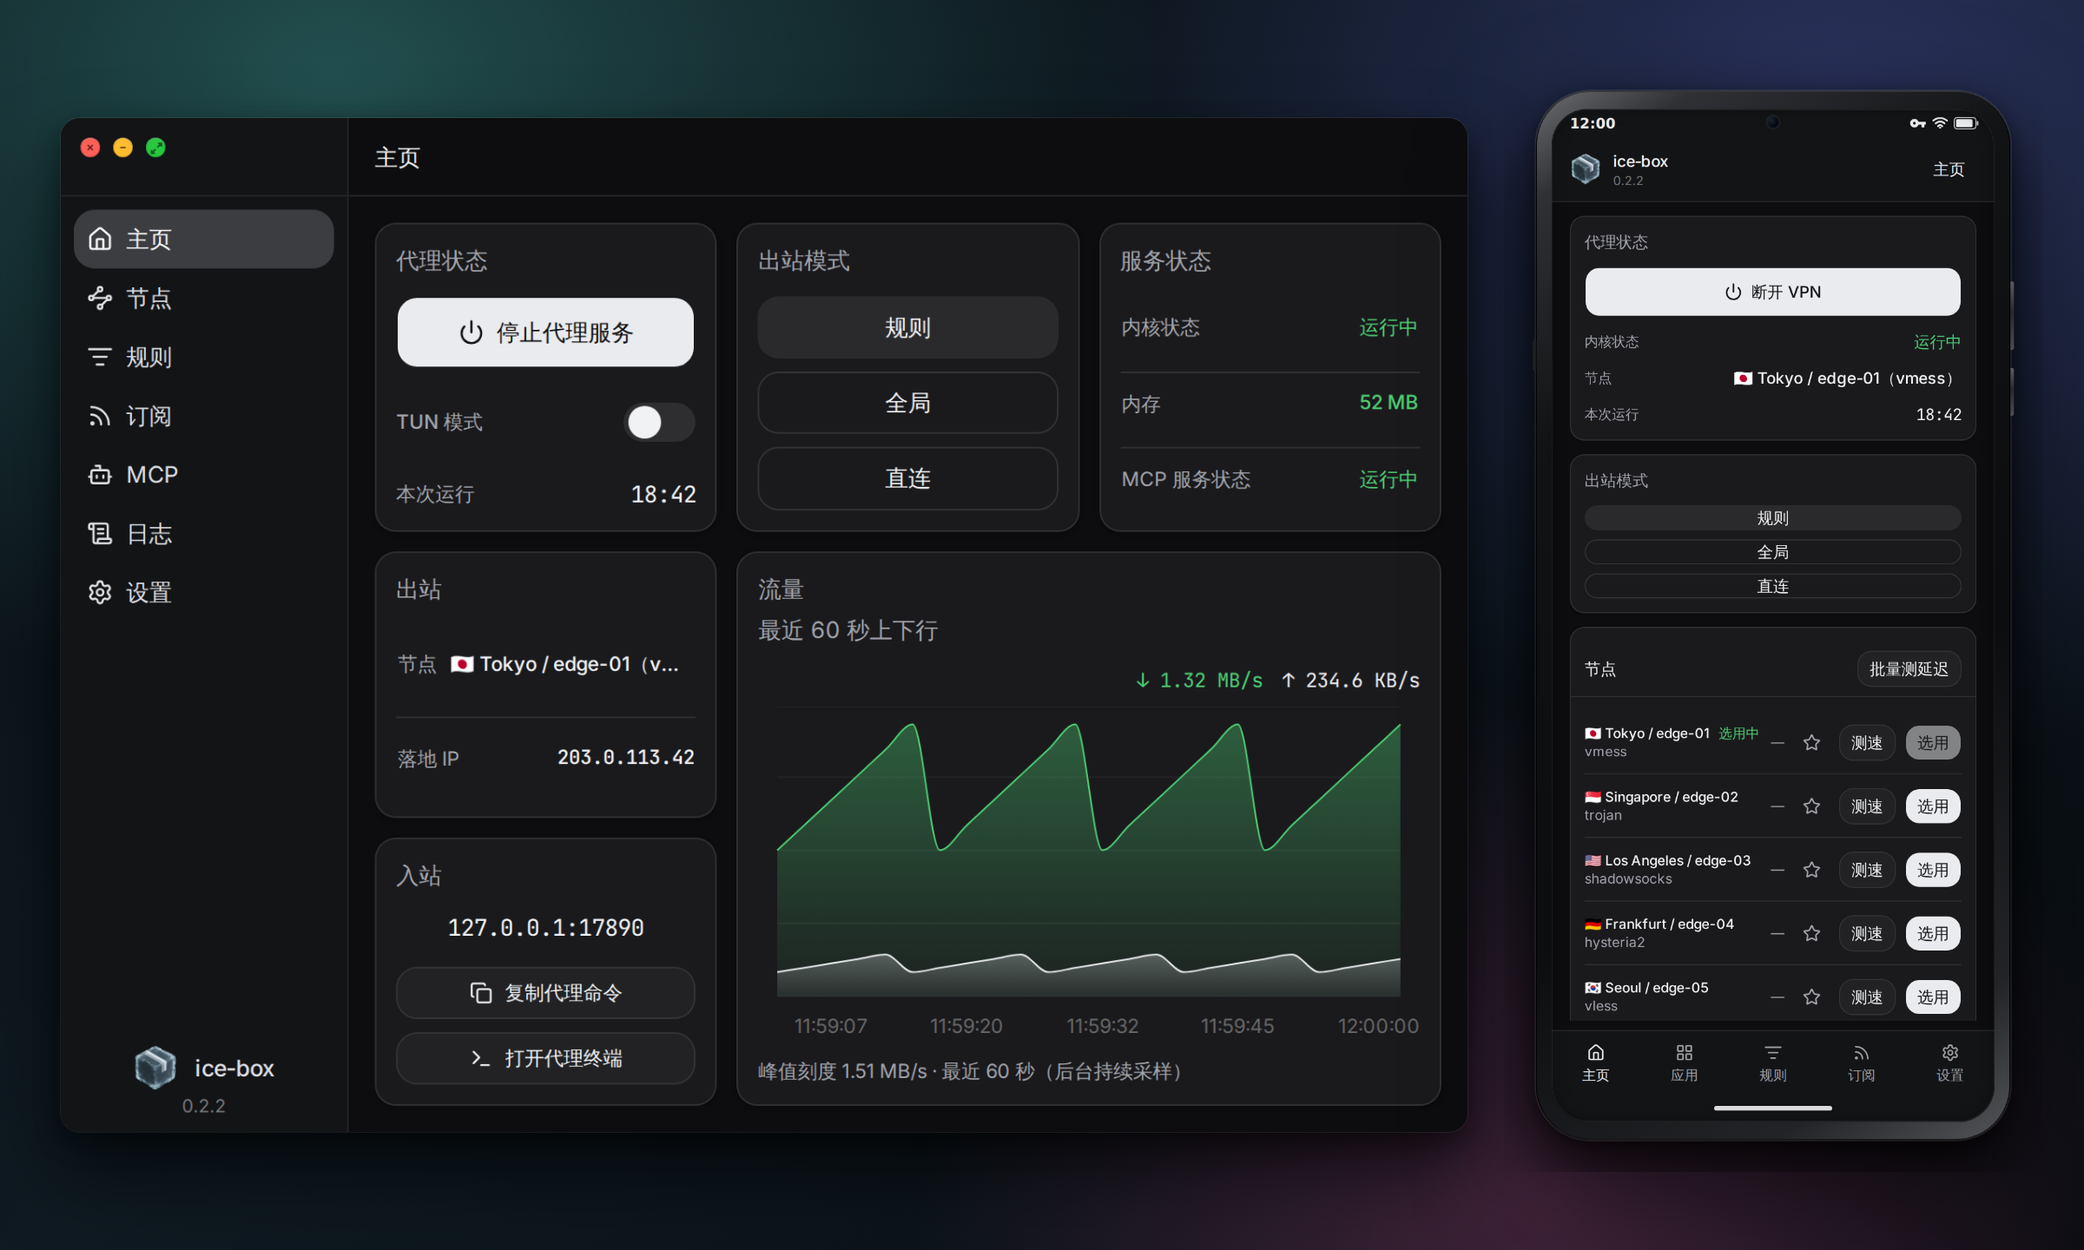
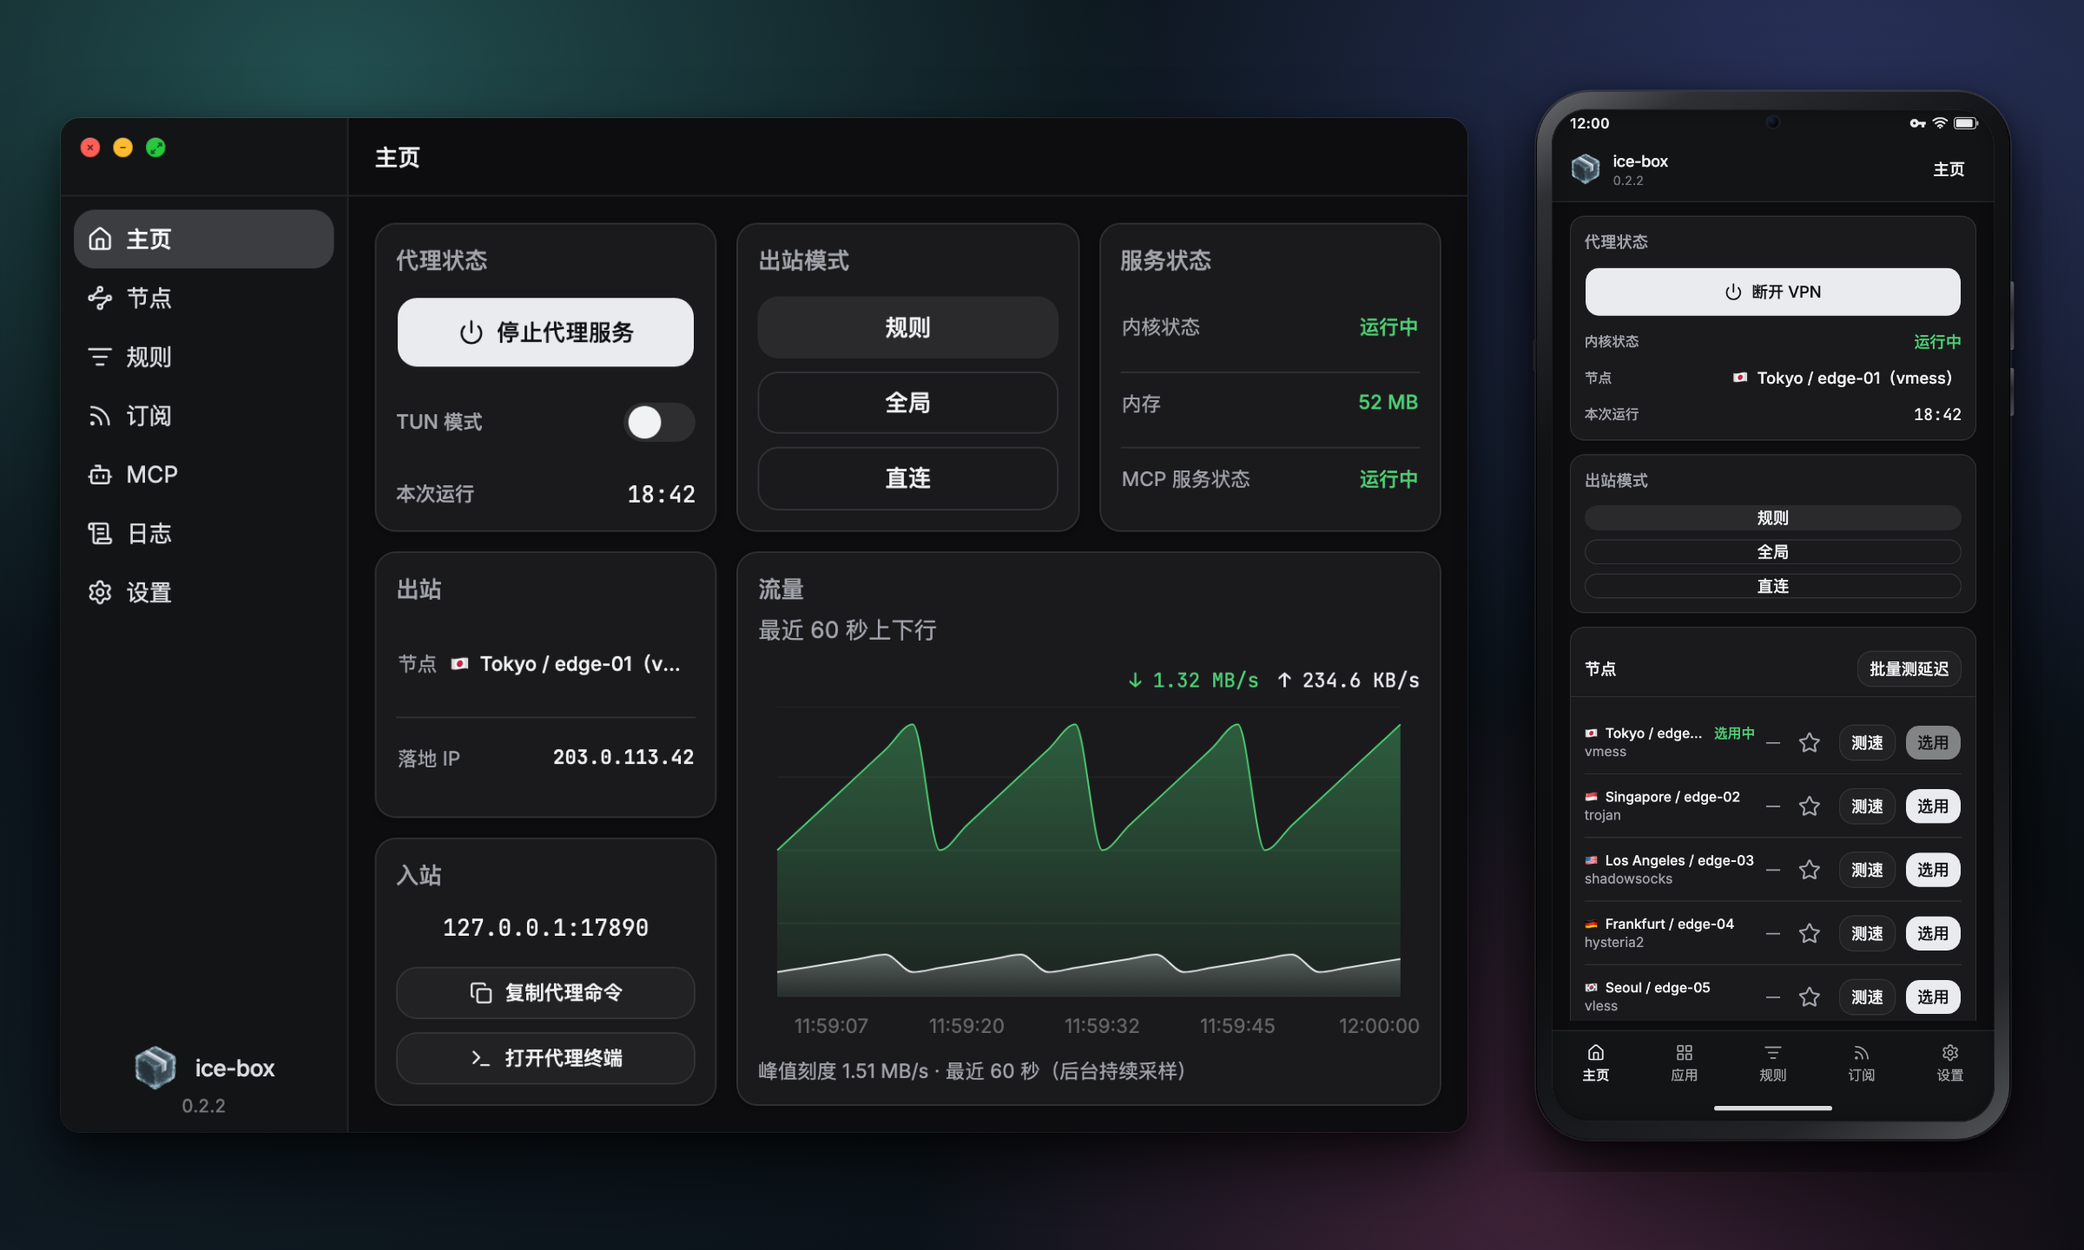
fix(favorites): close v0.2.3 review gaps
- keep favorite writes single-flight through the post-success refresh
- reject unsupported node-favorites versions without overwriting them
- cover the desktop subscription-removal favorites purge
- refresh the v0.2.3 plan and hero captures for the 36px star

diff --git a/apps/desktop/src/pages/Nodes.tsx b/apps/desktop/src/pages/Nodes.tsx
@@ -507,9 +507,11 @@ export function Nodes({ onNavigate, active = true, embedded = false }: Props) {
     };
   }, []);
 
-  const refresh = useCallback(async () => {
+  const refresh = useCallback(async (opts?: { allowDuringFavorite?: boolean }) => {
     // A favorite write owns the optimistic list until its post-success refresh.
-    if (favoriteInFlightRef.current) return;
+    // That refresh passes `allowDuringFavorite` because the single-flight guard
+    // intentionally stays set until the list has caught up with the backend.
+    if (favoriteInFlightRef.current && opts?.allowDuringFavorite !== true) return;
     const gen = nextGeneration();
     try {
       // Read the status directly instead of the shared store's cached value:
@@ -717,9 +719,9 @@ export function Nodes({ onNavigate, active = true, embedded = false }: Props) {
         setNodes(applyFavoriteToNodes(previous, node.tag, !wasFavorite));
         try {
           await api.setNodeFavorite(node.tag, !wasFavorite);
-          favoriteInFlightRef.current = false;
-          if (mountedRef.current) setFavoritePending(false);
-          if (mountedRef.current && activeRef.current) await refresh();
+          if (mountedRef.current && activeRef.current) {
+            await refresh({ allowDuringFavorite: true });
+          }
         } catch (e) {
           // Keep the snapshot as the last backend result; reverting to
           // `previous` restores the rows without writing a favorite state.
@@ -728,6 +730,8 @@ export function Nodes({ onNavigate, active = true, embedded = false }: Props) {
             setError(formatInvokeError(e));
           }
         } finally {
+          // Stay single-flight through the post-success refresh: a second star
+          // click must not race the list while it is catching up.
           favoriteInFlightRef.current = false;
           if (mountedRef.current) setFavoritePending(false);
         }

diff --git a/apps/desktop/src/pages/Nodes.test.tsx b/apps/desktop/src/pages/Nodes.test.tsx
@@ -1044,6 +1044,51 @@ describe("Nodes", () => {
     });
   });
 
+  it("keeps the single-flight guard through the post-success refresh", async () => {
+    const { container } = render(<Nodes />);
+    const view = within(container);
+    await view.findByRole("list", { name: t("nodes.listAria") });
+    const fetchesBefore = listNodes.mock.calls.length;
+
+    let releaseRefresh: (nodes: Array<Record<string, unknown>>) => void = () => {};
+    listNodes.mockImplementation(
+      () =>
+        new Promise<Array<Record<string, unknown>>>((resolve) => {
+          releaseRefresh = resolve;
+        }),
+    );
+
+    fireEvent.click(star(rowOf(view, "node-a")));
+    await waitFor(() => {
+      expect(setNodeFavorite).toHaveBeenCalledWith("node-a", true);
+      expect(listNodes.mock.calls.length).toBe(fetchesBefore + 1);
+    });
+    expect(star(rowOf(view, "node-a"), true)).toBeDisabled();
+
+    fireEvent.click(star(rowOf(view, "node-b")));
+    expect(setNodeFavorite).toHaveBeenCalledTimes(1);
+
+    await act(async () => {
+      releaseRefresh([
+        {
+          tag: "node-a",
+          outbound_type: "socks",
+          group_now: null,
+          group_all: null,
+          favorite: true,
+          favorite_rank: 0,
+        },
+        {
+          tag: "node-b",
+          outbound_type: "vmess",
+          group_now: null,
+          group_all: null,
+        },
+      ]);
+    });
+    await waitFor(() => expect(star(rowOf(view, "node-b"))).toBeEnabled());
+  });
+
   it("rolls back and shows the error when the favorite write fails", async () => {
     setNodeFavorite.mockRejectedValueOnce("favorite failed");
     const { container } = render(<Nodes />);

diff --git a/crates/ice-config/src/favorites.rs b/crates/ice-config/src/favorites.rs
@@ -5,8 +5,9 @@
 //! Favorites are local UI preferences, not subscription parsing state. Each
 //! subscription owns an ordered tag list, newest favorite first. Stale tags
 //! stay on disk when a provider refresh drops them, so the pin returns if the
-//! same tag reappears. Reads and writes are serialized by a module-level
-//! mutex; the atomic write protects readers from partial files.
+//! same tag reappears. Mutations are serialized by a module-level mutex;
+//! readers rely on the atomic write to see either the previous or the next
+//! complete file.
 
 use crate::atomic::write_json_atomic;
 use crate::{AppError, ErrorCode};
@@ -59,32 +60,70 @@ impl NodeFavorites {
 
 /// Load favorites. A missing file is empty; a corrupt wrapper degrades to
 /// empty. Invalid subscription keys and malformed entries are skipped without
-/// discarding the rest of the file.
+/// discarding the rest of the file. A file with an unknown version also reads
+/// as empty, but writes refuse to touch it so a downgraded build cannot erase
+/// newer data.
 pub fn load_node_favorites(path: &Path) -> NodeFavorites {
+    match load_favorites(path) {
+        LoadedFavorites::Ready(favorites) => favorites,
+        LoadedFavorites::UnsupportedVersion => NodeFavorites::default(),
+    }
+}
+
+enum LoadedFavorites {
+    Ready(NodeFavorites),
+    UnsupportedVersion,
+}
+
+fn load_favorites(path: &Path) -> LoadedFavorites {
     let raw = match fs::read_to_string(path) {
         Ok(raw) => raw,
         Err(err) if err.kind() == std::io::ErrorKind::NotFound => {
-            return NodeFavorites::default();
+            return LoadedFavorites::Ready(NodeFavorites::default());
         }
         Err(err) => {
             tracing::warn!(path = %path.display(), error = %err, "load node favorites");
-            return NodeFavorites::default();
+            return LoadedFavorites::Ready(NodeFavorites::default());
         }
     };
     parse_favorites(&raw)
 }
 
-fn parse_favorites(raw: &str) -> NodeFavorites {
+fn load_favorites_for_write(path: &Path) -> Result<NodeFavorites, AppError> {
+    match load_favorites(path) {
+        LoadedFavorites::Ready(favorites) => Ok(favorites),
+        LoadedFavorites::UnsupportedVersion => Err(AppError::new(
+            ErrorCode::ConfigInvalid,
+            "node favorites: file version is not supported; update the app or remove node-favorites.json",
+        )),
+    }
+}
+
+fn parse_favorites(raw: &str) -> LoadedFavorites {
     let value: Value = match serde_json::from_str(raw) {
         Ok(value) => value,
         Err(err) => {
             tracing::warn!(error = %err, "node favorites: corrupt file treated as empty");
-            return NodeFavorites::default();
+            return LoadedFavorites::Ready(NodeFavorites::default());
         }
     };
+    match value.get("version").and_then(Value::as_u64) {
+        Some(version) if version == u64::from(FAVORITES_VERSION) => {}
+        Some(version) => {
+            tracing::warn!(
+                version,
+                "node favorites: unsupported version treated as empty"
+            );
+            return LoadedFavorites::UnsupportedVersion;
+        }
+        None => {
+            tracing::warn!("node favorites: missing or invalid version treated as empty");
+            return LoadedFavorites::UnsupportedVersion;
+        }
+    }
     let Some(subscriptions) = value.get("subscriptions").and_then(Value::as_object) else {
         tracing::warn!("node favorites: missing subscriptions object treated as empty");
-        return NodeFavorites::default();
+        return LoadedFavorites::Ready(NodeFavorites::default());
     };
     let mut favorites = NodeFavorites::default();
     for (key, value) in subscriptions {
@@ -115,7 +154,7 @@ fn parse_favorites(raw: &str) -> NodeFavorites {
             favorites.subscriptions.insert(subscription, cleaned);
         }
     }
-    favorites
+    LoadedFavorites::Ready(favorites)
 }
 
 #[derive(Serialize)]
@@ -150,7 +189,7 @@ pub fn set_node_favorite(
     let _guard = FAVORITES_LOCK
         .lock()
         .unwrap_or_else(|poisoned| poisoned.into_inner());
-    let mut favorites = load_node_favorites(path);
+    let mut favorites = load_favorites_for_write(path)?;
     let previous = favorites.subscriptions.get(&subscription).cloned();
     if favorite {
         let mut tags = favorites
@@ -182,7 +221,7 @@ pub fn remove_subscription_favorites(path: &Path, subscription: Uuid) -> Result<
     let _guard = FAVORITES_LOCK
         .lock()
         .unwrap_or_else(|poisoned| poisoned.into_inner());
-    let mut favorites = load_node_favorites(path);
+    let mut favorites = load_favorites_for_write(path)?;
     if favorites.subscriptions.remove(&subscription).is_none() {
         return Ok(());
     }
@@ -216,6 +255,34 @@ mod tests {
         fs::create_dir_all(path.parent().unwrap()).unwrap();
         fs::write(&path, "{not json").unwrap();
         assert_eq!(load_node_favorites(&path), NodeFavorites::default());
+        let _ = fs::remove_dir_all(path.parent().unwrap());
+    }
+
+    #[test]
+    fn unsupported_or_missing_versions_load_empty_and_refuse_writes() {
+        let path = temp_path("version");
+        let id = Uuid::new_v4();
+        fs::create_dir_all(path.parent().unwrap()).unwrap();
+        for body in [
+            json!({"version": 2, "subscriptions": { id.to_string(): ["A"] }}),
+            json!({"version": "1", "subscriptions": { id.to_string(): ["A"] }}),
+            json!({"subscriptions": { id.to_string(): ["A"] }}),
+        ] {
+            let raw = serde_json::to_string(&body).unwrap();
+            fs::write(&path, &raw).unwrap();
+            assert!(load_node_favorites(&path).tags(id).is_empty());
+
+            let err = set_node_favorite(&path, id, "B", true).expect_err("unsupported version");
+            assert_eq!(err.code, ErrorCode::ConfigInvalid.as_str());
+            assert_eq!(
+                fs::read_to_string(&path).unwrap(),
+                raw,
+                "an unsupported wrapper must survive a write attempt"
+            );
+        }
+
+        let err = remove_subscription_favorites(&path, id).expect_err("unsupported version");
+        assert_eq!(err.code, ErrorCode::ConfigInvalid.as_str());
         let _ = fs::remove_dir_all(path.parent().unwrap());
     }
 

diff --git a/apps/desktop/src-tauri/src/application/tests.rs b/apps/desktop/src-tauri/src/application/tests.rs
@@ -3,7 +3,9 @@
 use super::*;
 use crate::capture::CaptureController;
 use crate::orchestrate::generate_config;
-use ice_config::{set_node_favorite, set_proxy_service_enabled, AppPaths, NormalizedOutbound};
+use ice_config::{
+    load_node_favorites, set_node_favorite, set_proxy_service_enabled, AppPaths, NormalizedOutbound,
+};
 use ice_engine::{
     load_index, read_profile, write_subscription_success, SubscriptionFormat, SubscriptionMeta,
     SubscriptionPaths,
@@ -1801,5 +1803,35 @@ fn set_node_favorite_validates_the_active_profile_and_does_not_rewrite_config() 
     )
     .expect_err("no active subscription");
     assert_eq!(err.code, ErrorCode::ConfigEmptyOutbounds.as_str());
+    let _ = fs::remove_dir_all(state.paths.root());
+}
+
+#[test]
+fn remove_subscription_use_case_purges_that_subscriptions_favorites() {
+    struct Host;
+
+    impl AppResources for Host {
+        fn resource_dir(&self) -> Option<std::path::PathBuf> {
+            None
+        }
+    }
+
+    impl AppHost for Host {
+        fn state_changed(&self) {}
+    }
+
+    let state = temp_state_with_node("favorite-remove");
+    let paths = SubscriptionPaths::from_app(&state.paths);
+    let id = load_index(&paths).unwrap().items[0].id;
+    set_node_favorite(&state.paths.node_favorites(), id, "n1", true).unwrap();
+    assert!(load_node_favorites(&state.paths.node_favorites()).contains(id, "n1"));
+
+    remove_subscription_use_case(&Host, &state, IdRequest { id }).expect("remove subscription");
+    assert!(
+        load_node_favorites(&state.paths.node_favorites())
+            .tags(id)
+            .is_empty(),
+        "removing a subscription must purge its favorites"
+    );
     let _ = fs::remove_dir_all(state.paths.root());
 }

diff --git a/docs/plans/v0.2.3.md b/docs/plans/v0.2.3.md
@@ -1,6 +1,6 @@
 # v0.2.3 Development Plan
 
-Status: Draft
+Status: Implemented (release pending)
 
 Branch: `release/v0.2.3`
 
@@ -111,6 +111,10 @@ Shape:
 
 - `version` is `1`. Future fields can be added to the wrapper with serde
   defaults; unknown top-level fields are ignored.
+- Any other version, including a missing or non-numeric one, is an unsupported
+  wrapper: reads return empty instead of parsing it under the current schema,
+  and writes fail without touching the file so a downgraded build cannot erase
+  newer data.
 - The `subscriptions` key is the subscription UUID as a string.
 - The value is an ordered list of node tags, **most recently favorited first**.
   Use a `Vec<String>` internally; each tag appears at most once.
@@ -367,9 +371,8 @@ In `apps/desktop/src/pages/Nodes.tsx`:
 - Add a star button to both the group-row and leaf-row action sets.
 - Use `Star` from `lucide-react`; fill it when active (`fill-current`,
   `text-warn`) and leave it outlined otherwise.
-- Use `buttonVariants({ variant: "ghost", size: "icon-sm" })` so the star stays
-  a 32px touch target. Do not fall back to `icon-xs`; it only saves 4px and
-  reduces the touch target.
+- Use `buttonVariants({ variant: "ghost", size: "icon" })` so the star stays a
+  36px touch target. `icon-sm` (32px) was too small in practice.
 - In embedded mode (phone), omit the per-row `notRunning` badge from group rows.
   The page-level warning already covers the stopped state, and removing the long
   label creates room for the star without shrinking the other controls.
@@ -444,7 +447,7 @@ example:
 | Invalid UUID key / unknown wrapper field | Invalid subscription keys are skipped; valid entries are retained; unknown fields are ignored |
 | More than 500 stale tags | Oldest tags are dropped; the newest favorites remain |
 | Core stopped | Star still toggles; no config apply |
-| Phone narrow width | Per-row "not running" badge is hidden; the 32px star remains reachable; capture at phone size confirms no overlap |
+| Phone narrow width | Per-row "not running" badge is hidden; the 36px star remains reachable; capture at phone size confirms no overlap |
 | Favorite rank missing (legacy/partial data) | The star is filled, the node pins after ranked favorites, and the next refresh supplies the authoritative rank |
 
 ## 7. Testing plan
@@ -591,29 +594,29 @@ Suggested commit split (only after the user asks to commit):
 
 ## 10. Acceptance criteria
 
-- [ ] A star button is visible on every top-level node-list row on desktop and
+- [x] A star button is visible on every top-level node-list row on desktop and
       Android, including strategy groups.
-- [ ] Expanded strategy-group member rows have no star.
-- [ ] Favoriting pins the row above all unfavorited rows, newest favorite first;
+- [x] Expanded strategy-group member rows have no star.
+- [x] Favoriting pins the row above all unfavorited rows, newest favorite first;
       unfavoriting restores its original position.
-- [ ] Favorites persist across app restarts and subscription updates (when the
+- [x] Favorites persist across app restarts and subscription updates (when the
       tag still exists).
-- [ ] Favorites are isolated per subscription and survive switching away and
+- [x] Favorites are isolated per subscription and survive switching away and
       back.
-- [ ] Removing a subscription removes its stored favorites.
-- [ ] Toggling a favorite never regenerates the runtime config or reloads the
+- [x] Removing a subscription removes its stored favorites.
+- [x] Toggling a favorite never regenerates the runtime config or reloads the
       core.
-- [ ] A favorite toggle is single-flight; a rapid second click is ignored.
-- [ ] A poll during a favorite toggle cannot revert the optimistic star.
-- [ ] Keyboard users can toggle a favorite; labels are localized in Chinese and
+- [x] A favorite toggle is single-flight; a rapid second click is ignored.
+- [x] A poll during a favorite toggle cannot revert the optimistic star.
+- [x] Keyboard users can toggle a favorite; labels are localized in Chinese and
       English.
-- [ ] Missing, corrupt, or partially invalid favorites files retain valid
+- [x] Missing, corrupt, or partially invalid favorites files retain valid
       entries; the 500-tag cap is enforced.
-- [ ] The phone Home node panel remains usable at a 390px viewport, with a 32px
+- [x] The phone Home node panel remains usable at a 390px viewport, with a 36px
       star and no overlapping controls.
-- [ ] The Live Demo pins favorites newest-first and keeps them isolated per demo
+- [x] The Live Demo pins favorites newest-first and keeps them isolated per demo
       subscription without mutating shared fixtures.
-- [ ] Desktop and mobile shell crates compile, tray tests pass, and the frontend
+- [x] Desktop and mobile shell crates compile, tray tests pass, and the frontend
       build plus gate checks pass.
 - [ ] The formal release follows `docs/release-process.md`: bump via
       `scripts/bump-version.sh`, changelog, gate, merge to `main`, tag `v0.2.3`,

diff --git a/docs/architecture.md b/docs/architecture.md
@@ -98,9 +98,12 @@ Local preferences include per-group selections (`group-selections.json`), rule
 overrides (`rules.json`), and per-subscription node favorites
 (`node-favorites.json`). The favorites file is a versioned wrapper keyed by
 subscription UUID with an ordered tag list per subscription, newest first,
-capped at 500 tags. Stale tags stay on disk across provider refreshes and are
-hidden until the same tag reappears. A favorite toggle is a UI preference only:
-it never regenerates the runtime configuration or reloads the core.
+capped at 500 tags. On read, an unknown file version is treated as empty
+rather than parsed with the current schema; writes refuse to replace that file,
+so a downgraded build cannot erase newer data. Stale tags stay on disk across
+provider refreshes and are hidden until the same tag reappears. A favorite
+toggle is a UI preference only: it never regenerates the runtime configuration
+or reloads the core.
 
 Provider-reported usage and expiry ride along with the subscription metadata
 rather than the profile, in both shapes providers use: the `subscription-userinfo`
